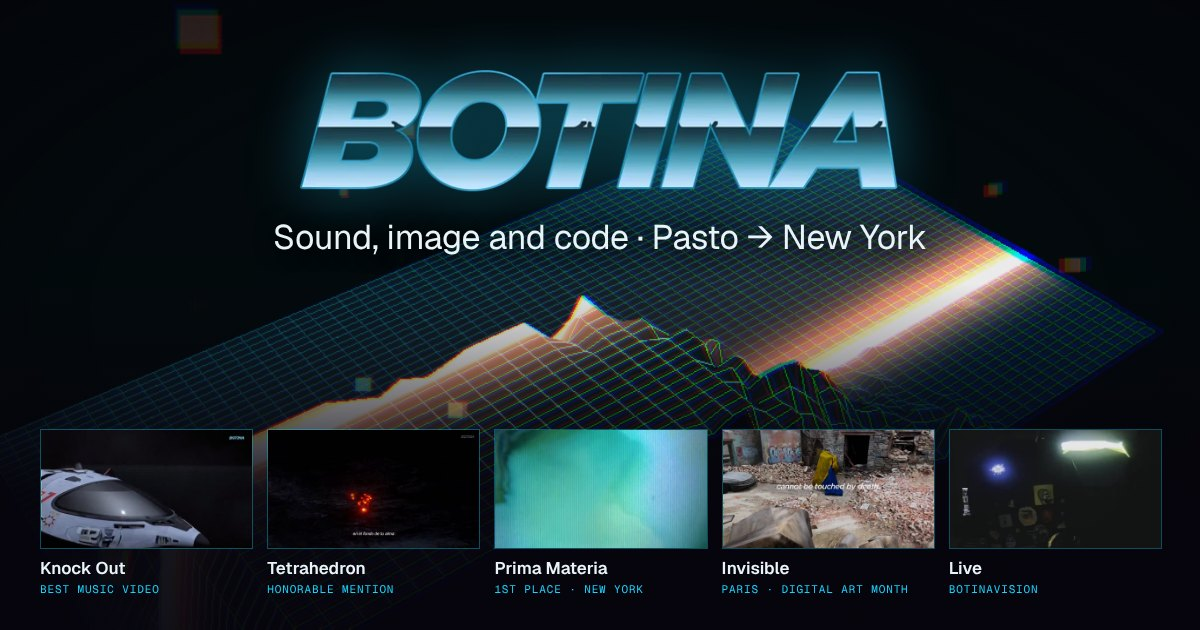
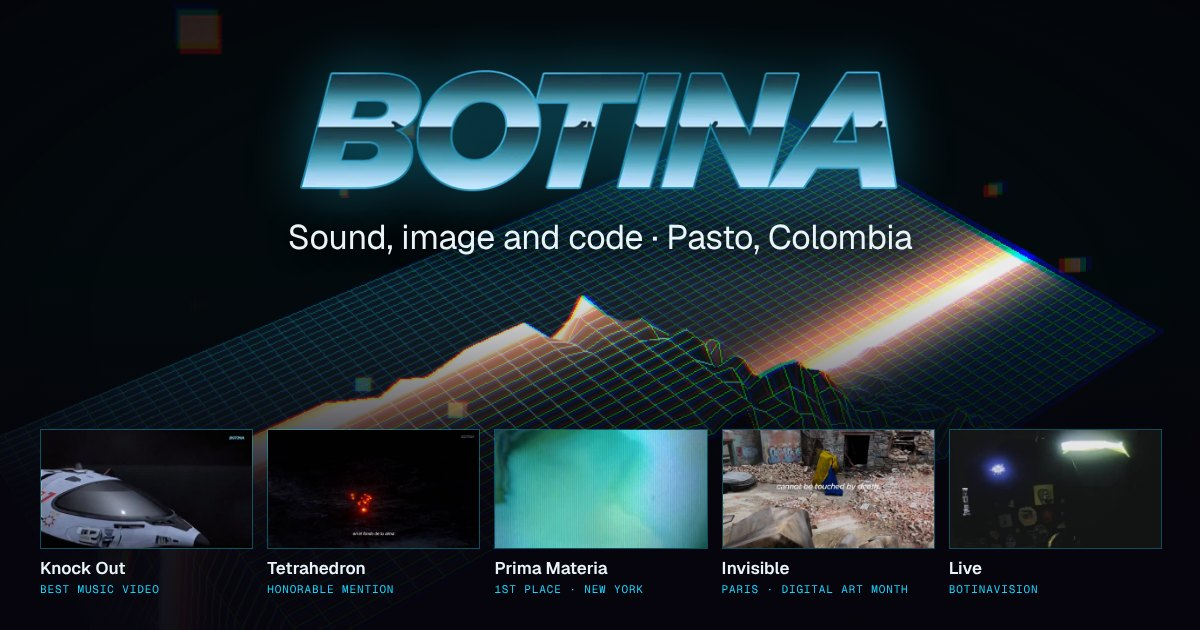
Build 45: link preview says Pasto, Colombia
Claude-Session: https://claude.ai/code/session_01TJ4ks77EykKPsd721aYm8b

Changed region(s): [[0.2158, 0.3619, 0.7708, 0.4222]]

diff --git a/index.html b/index.html
@@ -4,18 +4,18 @@
 <meta charset="utf-8">
 <title>Botina</title>
 <meta name="viewport" content="width=device-width,initial-scale=1,viewport-fit=cover">
-<meta name="description" content="Botina — artist, producer and DJ. Scroll to mix: sound, image and code from Pasto to New York.">
+<meta name="description" content="Botina — artist, producer and DJ. Scroll to mix: sound, image and code from Pasto, Colombia.">
 <meta name="theme-color" content="#000000">
 <link rel="icon" type="image/png" sizes="32x32" href="assets/favicon.png?v=1">
 <meta property="og:title" content="Botina — sound, image and code">
 <meta property="og:description" content="Artist, producer and DJ. Award-winning music videos and video art, mixed live in a real-time 3D spectrogram. Scroll to mix.">
-<meta property="og:image" content="https://botina.co/assets/og.jpg">
+<meta property="og:image" content="https://botina.co/assets/og.jpg?v=2">
 <meta property="og:image:width" content="1200">
 <meta property="og:image:height" content="630">
 <meta property="og:type" content="website">
 <meta property="og:url" content="https://botina.co/">
 <meta name="twitter:card" content="summary_large_image">
-<meta name="twitter:image" content="https://botina.co/assets/og.jpg">
+<meta name="twitter:image" content="https://botina.co/assets/og.jpg?v=2">
 <style>
 @font-face{font-family:Geist;src:url(assets/geist.woff) format("woff");font-weight:100 900;font-display:swap}
 @font-face{font-family:"Geist Mono";src:url(assets/geist-mono.woff) format("woff");font-weight:100 900;font-display:swap}
@@ -116,9 +116,9 @@ noscript{position:fixed;inset:0;display:grid;place-items:center;background:#000;
 </style>
 </head>
 <body>
-<div id="dbg"></div><div id="ver">build 44</div>
+<div id="dbg"></div><div id="ver">build 45</div>
 <script>(function(){try{const L=localStorage,o=L.getItem("bviz_perf");L.removeItem("emb:bviz_th");if(o&&/^\{"mode":"(alto|equilibrado|ligero)","lvl":[012]\}$/.test(o))L.removeItem("bviz_perf");const m=location.search.match(/[?&]perf=([012])/);const mob=matchMedia("(pointer:coarse)").matches,l=m?+m[1]:(mob?-1:2);if(l>=0)L.setItem("emb:bviz_perf",JSON.stringify({mode:["alto","equilibrado","ligero"][l],lvl:l}));else{const e=L.getItem("emb:bviz_perf");if(e&&!/bench/.test(e))L.removeItem("emb:bviz_perf")}}catch(e){}})()</script>
-<iframe id="bv" src="assets/bvlite.html?v=44" title="Botinavision" tabindex="-1" aria-hidden="true"></iframe>
+<iframe id="bv" src="assets/bvlite.html?v=45" title="Botinavision" tabindex="-1" aria-hidden="true"></iframe>
 <div id="dim" style="position:fixed;inset:0;background:#000;opacity:0;pointer-events:none;z-index:-1"></div><div id="vig"></div>
 <div id="spacer"></div>
 
@@ -158,7 +158,7 @@ const clamp=(x,a=0,b=1)=>Math.min(b,Math.max(a,x));
 const sm=x=>{x=clamp(x);return x*x*(3-2*x)};
 const mobile=matchMedia("(pointer:coarse)").matches||innerWidth<700;
 const DEBUG=/debug/.test(location.search),NOV=/[?&]nov\b/.test(location.search),NOBV=/[?&]nobv\b/.test(location.search),FLAT=NOBV||/[?&]flat\b/.test(location.search);
-const VER="44";window.__mob=mobile;
+const VER="45";window.__mob=mobile;
 
 /* ---------- content ---------- */
 const T={
